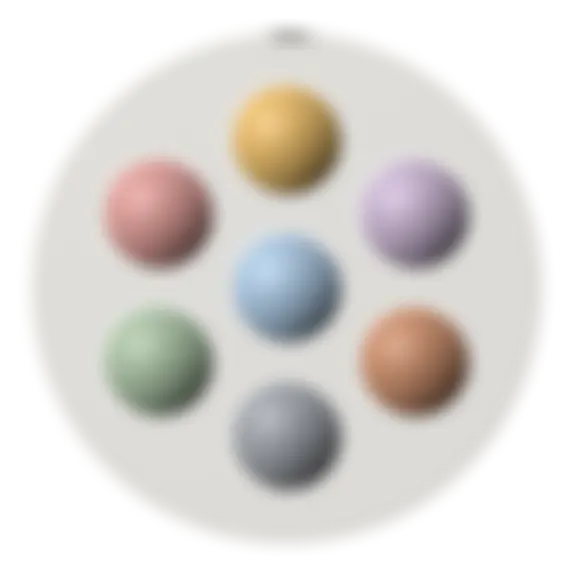
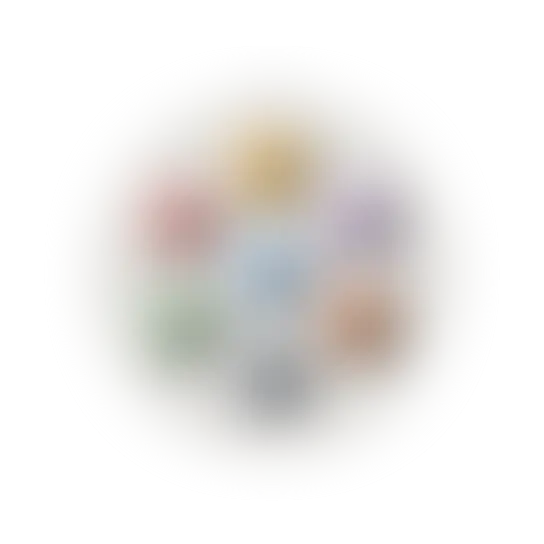
Desk: the clicked object moves to the center at its own size
No zoom any more (scale stays 1): the object slides to the middle and
straightens, and slides back on close. The blurred object images are
regenerated for the unscaled size.

diff --git a/app/page.tsx b/app/page.tsx
@@ -120,7 +120,7 @@ function DeskLayer({ layer, active, wiggle, away, onWiggleEnd }: {
 
 // ====== 点开物件：镜头推进 → 虚化 → 面板弹出 ======
 // 打开（约 0.9 秒，三步有重叠）：
-//   0–450ms   被点的物件放大、移到画面中心并摆正（占窗口高度约 80%）
+//   0–450ms   被点的物件保持原大小，移到画面中心并摆正
 //   300–700ms 整个场景（包括放大的物件）虚化，叠 20% 深色
 //   500–900ms 面板从下方 40px 升到正中央并淡入
 // 关闭（约 0.6 秒）倒放：面板下移淡出 → 虚化消失 → 物件飞回原位。
@@ -134,8 +134,6 @@ const hashOf = (id: SectionId) => SECTIONS.find((s) => s.id === id)?.title.repla
 const sectionOfHash = (hash: string) =>
   DOCK_ORDER.find((id) => hashOf(id) === decodeURIComponent(hash.replace(/^#/, "")));
 
-const ZOOM_H = 0.8; // 推进后物件占窗口高度（desk3d/blur.mjs 用同一个数换算模糊半径）
-const ZOOM_W = 0.9;
 const EASE_OUT = [0.16, 1, 0.3, 1] as const;
 const T = {
   zoom: { duration: 0.45, ease: EASE_OUT },
@@ -156,7 +154,7 @@ function clock() {
 const CLOSE_MS = 600;
 
 type Pose = { x: number; y: number; scale: number; rotate: number };
-type Flight = { layer: Layer; rect: Box; to: Pose; scale: number };
+type Flight = { layer: Layer; rect: Box; to: Pose };
 const HOME: Pose = { x: 0, y: 0, scale: 1, rotate: 0 };
 
 function planFlight(scene: DOMRect, layerId: string): Flight | null {
@@ -169,24 +167,18 @@ function planFlight(scene: DOMRect, layerId: string): Flight | null {
     width: (layer.width / 100) * scene.width,
     height: (layer.height / 100) * scene.height,
   };
-  // 摆正后的物件大小 = 点击框（未旋转的物件外框）
-  const ow = (hotspot.width / 100) * scene.width;
-  const oh = (hotspot.height / 100) * scene.height;
-  const vw = window.innerWidth;
-  const vh = window.innerHeight;
-  const scale = Math.min((ZOOM_H * vh) / oh, (ZOOM_W * vw) / ow);
+  // 不放大：保持原来的大小，只移到画面中心并摆正
   const to = {
-    x: vw / 2 - (rect.left + rect.width / 2),
-    y: vh / 2 - (rect.top + rect.height / 2),
-    scale,
+    x: window.innerWidth / 2 - (rect.left + rect.width / 2),
+    y: window.innerHeight / 2 - (rect.top + rect.height / 2),
+    scale: 1,
     rotate: -(hotspot.rotate ?? 0),
   };
-  return { layer, rect, to, scale };
+  return { layer, rect, to };
 }
 
-// 推进的物件：清晰图（先用和原位一样的那份，已缓存；高清图加载完盖上）→ 淡入替换成模糊图
+// 移到中心的物件：清晰图（和原位同一份，已缓存）→ 淡入替换成模糊图
 function Hero({ flight }: { flight: Flight }) {
-  const [hi, setHi] = useState(false);
   const { layer, rect } = flight;
   const b = (blur.layers as Record<string, { src: string; padX: number; padY: number }>)[layer.id];
   return (
@@ -205,14 +197,6 @@ function Hero({ flight }: { flight: Flight }) {
         exit={{ opacity: 1, transition: { duration: 0.08 } }}
       >
         <Image src={layer.src} alt="" fill sizes={layerSizes(layer)} />
-        <Image
-          src={layer.src}
-          alt=""
-          fill
-          sizes={`${Math.round(rect.width * Math.min(flight.scale, 3))}px`}
-          style={{ opacity: hi ? 1 : 0 }}
-          onLoad={() => setHi(true)}
-        />
       </motion.div>
       {b && (
         <motion.img
